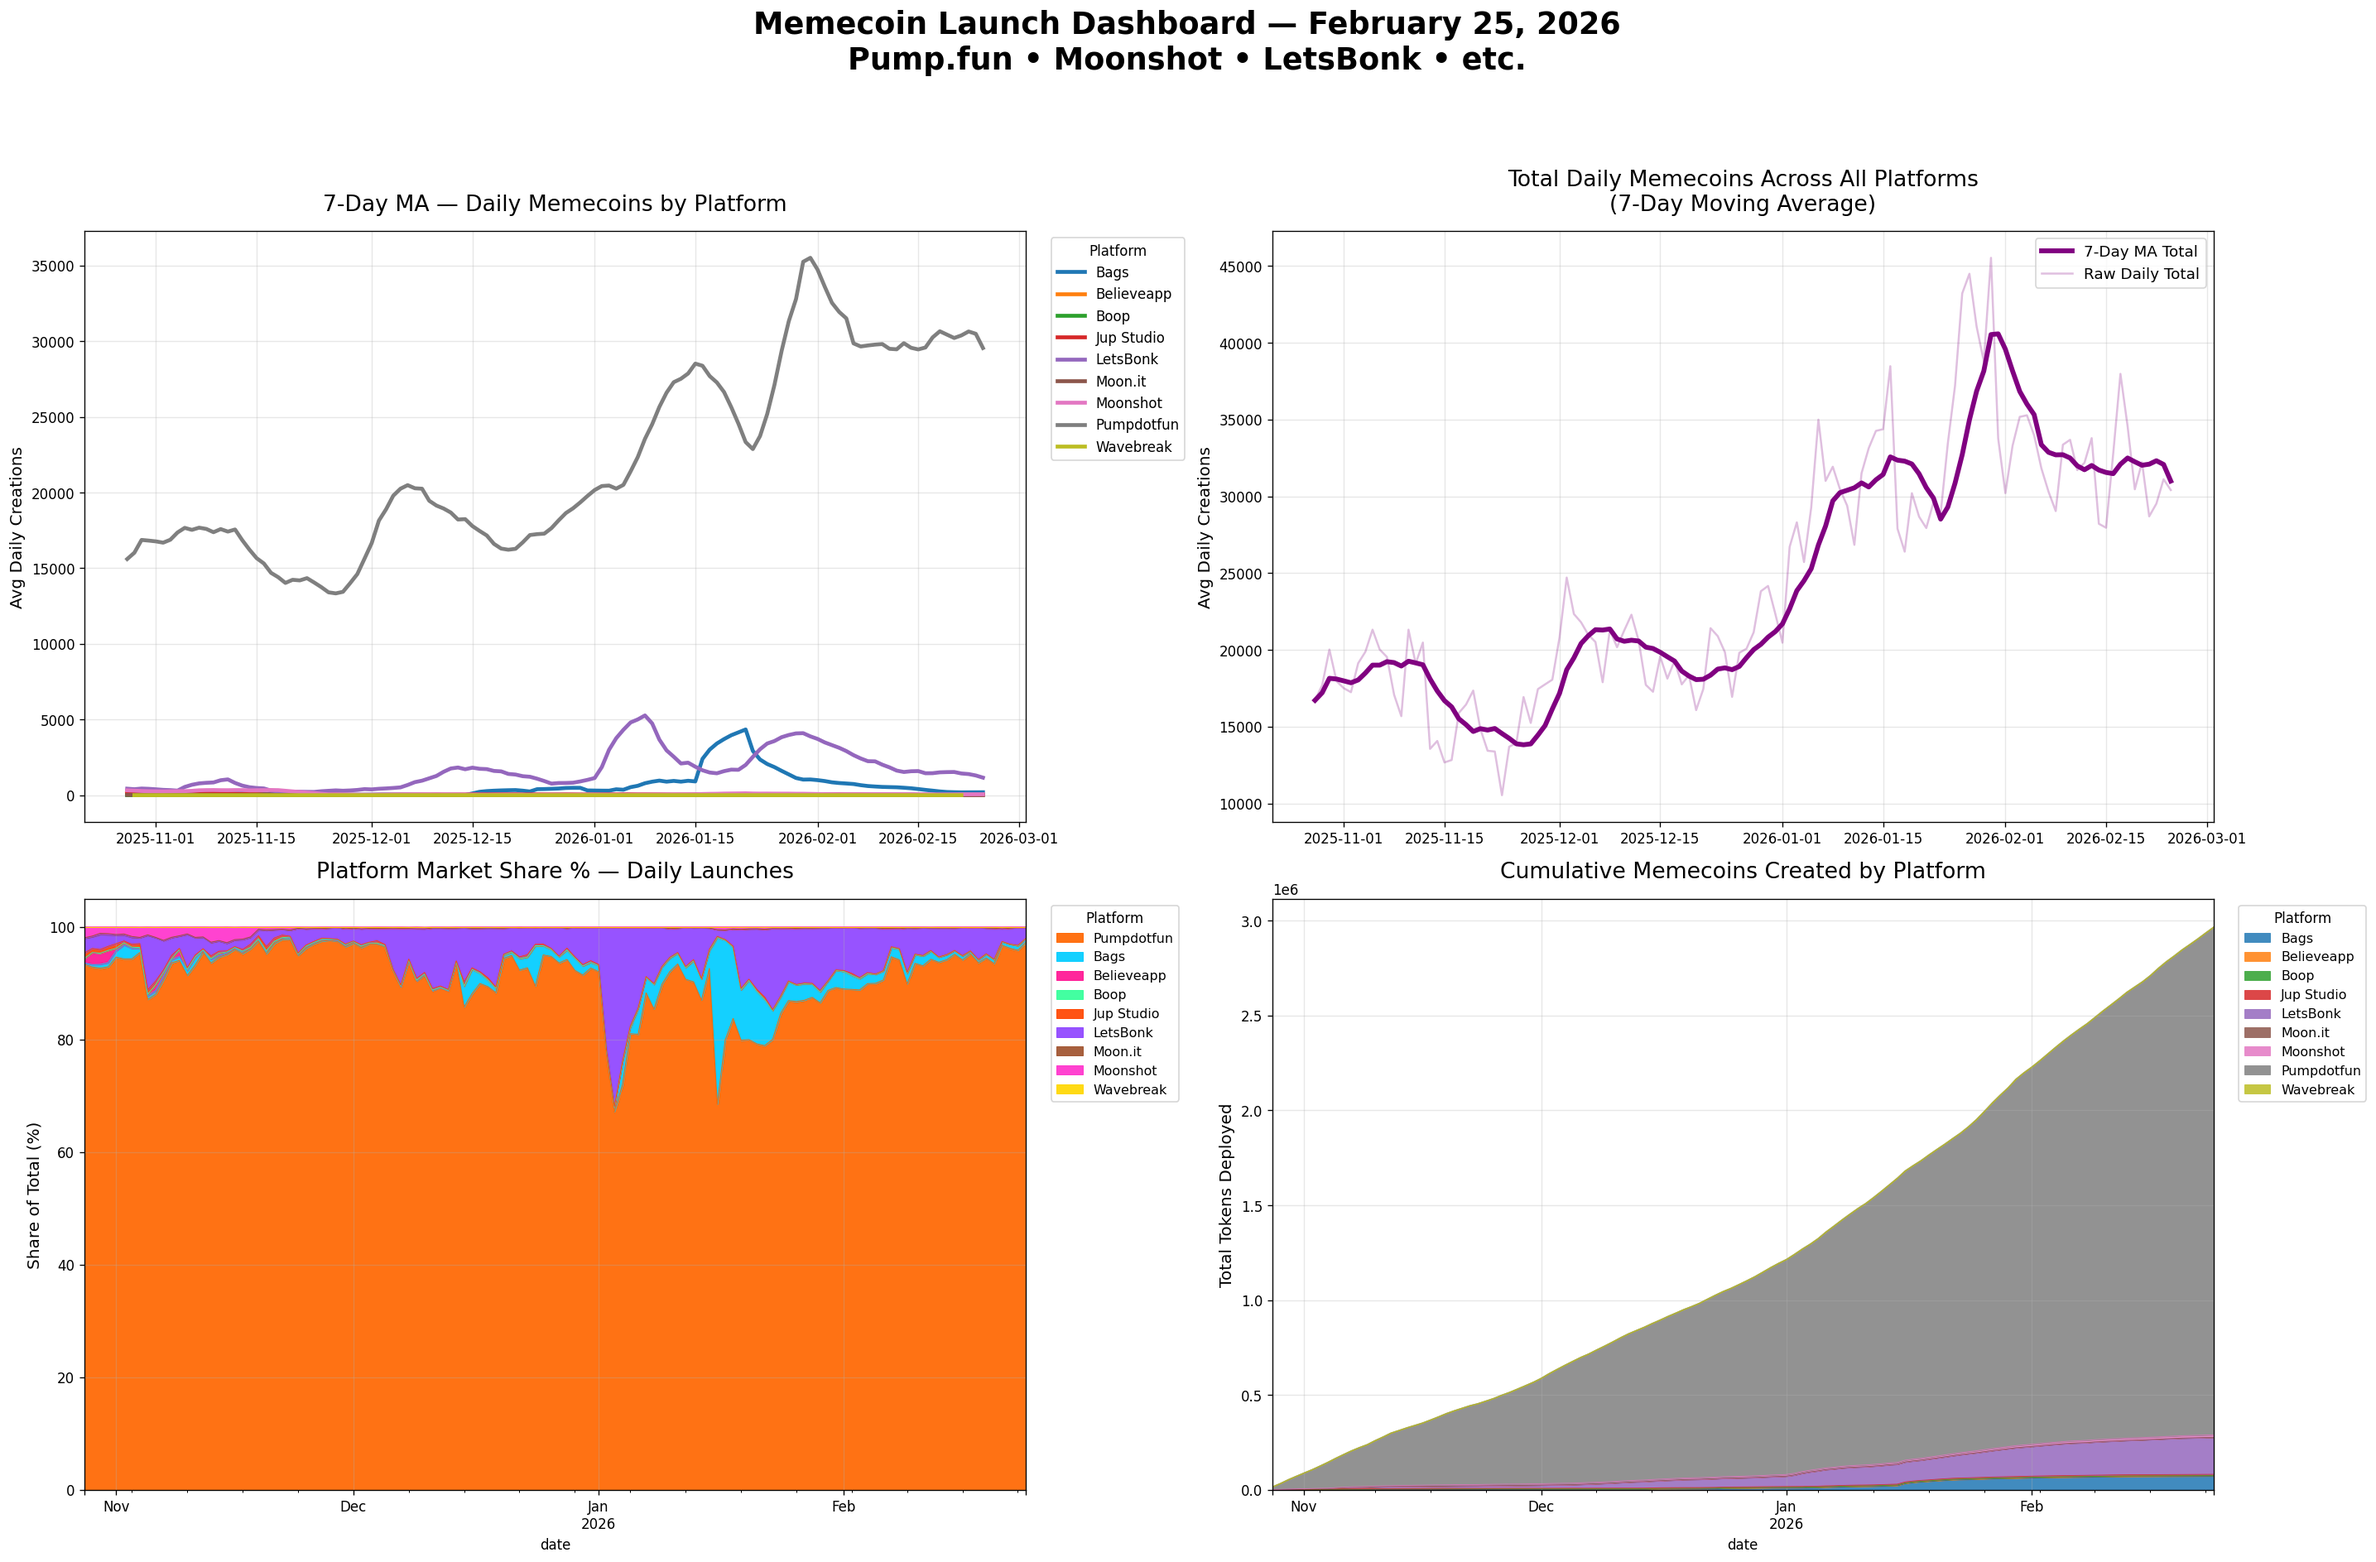
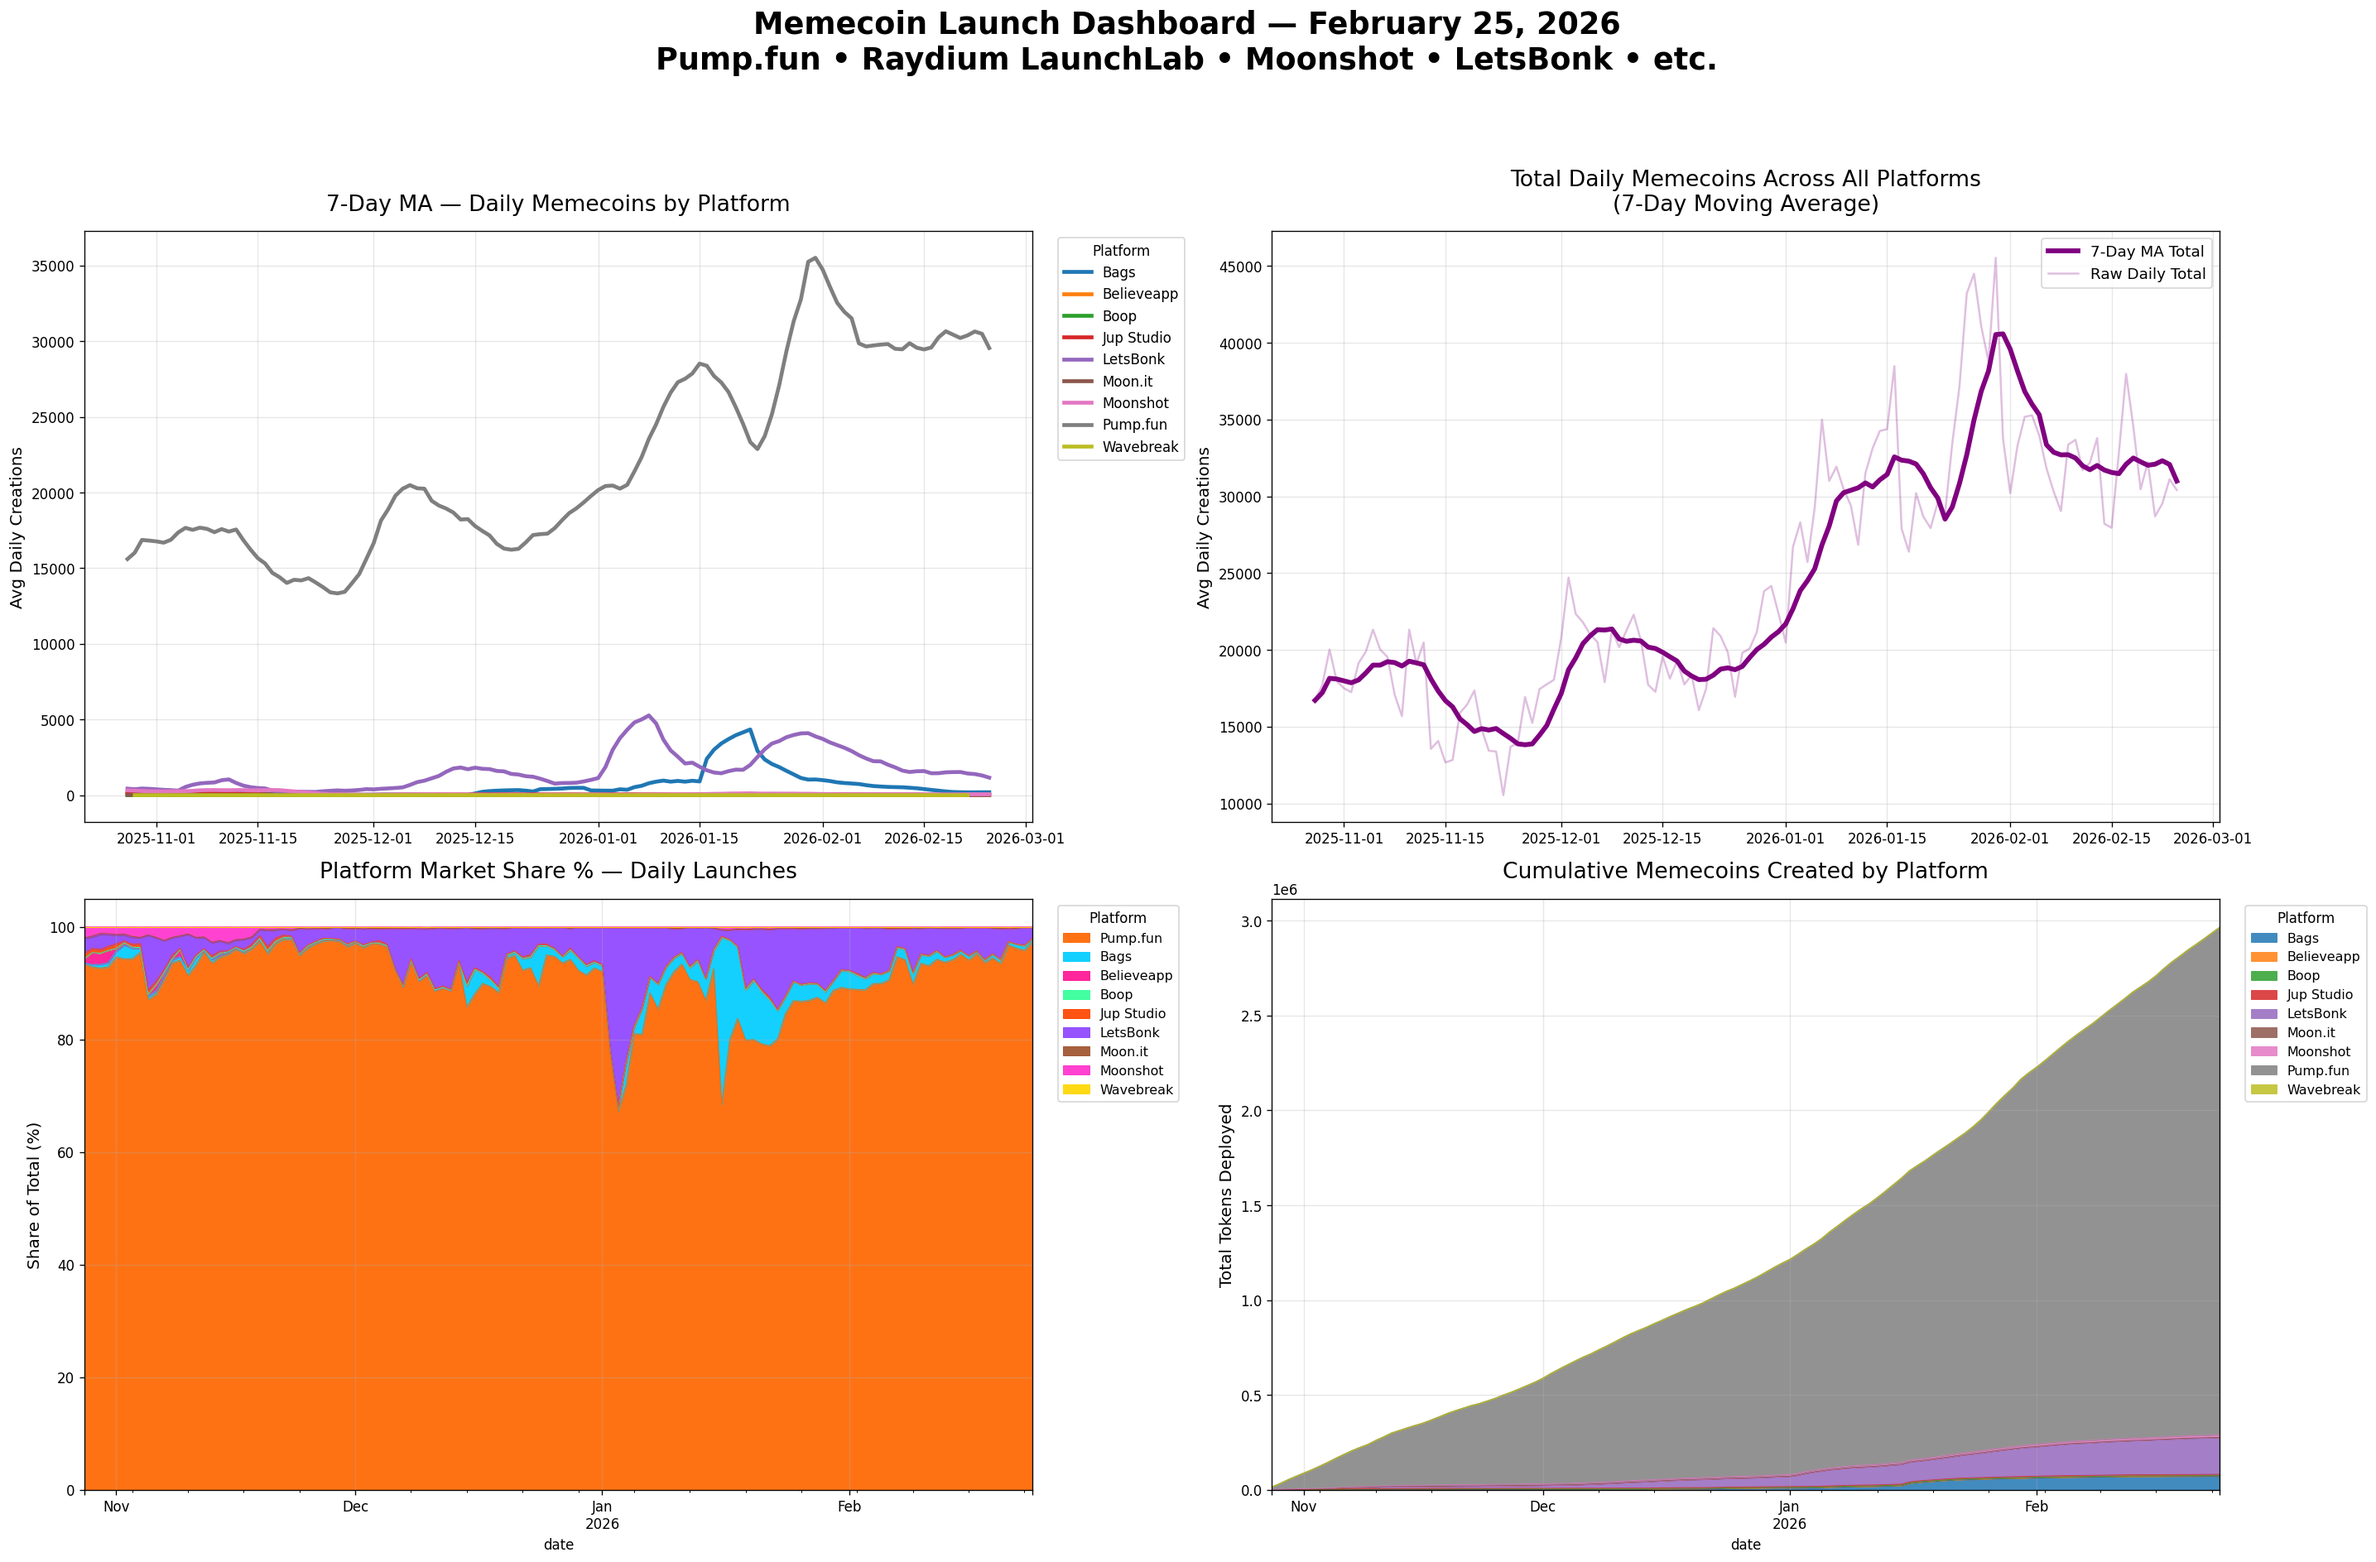
is raydium competitive

diff --git a/src/price_cor/memeData.py b/src/price_cor/memeData.py
@@ -6,7 +6,7 @@ from dune_client.client import DuneClient
 
 class MemecoinDashboard:
     QUERY_ID = 4010816
-    OUTPUT_FILE = "memecoin_dashboard.png"   # ← always the same file (overwrites)
+    OUTPUT_FILE = "memecoin_dashboard.png"   # always the same file
 
     def __init__(self):
         self.dune = self._init_dune_client()
@@ -14,7 +14,6 @@ class MemecoinDashboard:
         self.platform_col = 'platform'
         self.count_col = 'daily_token_count'
         
-        # Will be populated by run()
         self.df = None
         self.df_ma = None
         self.df_total = None
@@ -23,7 +22,6 @@ class MemecoinDashboard:
         self.df_pivot_cum = None
 
     def _init_dune_client(self):
-        """Interactive Dune API key (same as before)"""
         DUNE_API_KEY = os.getenv("DUNE_API_KEY")
         if not DUNE_API_KEY:
             DUNE_API_KEY = input("🔑 Paste your full Dune API key here: ").strip()
@@ -32,8 +30,17 @@ class MemecoinDashboard:
                 exit(1)
         return DuneClient(api_key=DUNE_API_KEY)
 
+    def _normalize_platform(self, name):
+        """Clean platform names for consistency"""
+        name = str(name).strip()
+        lower = name.lower()
+        if any(x in lower for x in ['raydium', 'launchlab', 'launch lab']):
+            return 'Raydium LaunchLab'
+        if lower == 'pumpdotfun':
+            return 'Pump.fun'
+        return name
+
     def fetch_data(self):
-        """Fetch latest data from Dune (exactly the same as before)"""
         print(f"\n🔄 Fetching live data from Dune Query #{self.QUERY_ID}...")
         self.df = self.dune.get_latest_result_dataframe(self.QUERY_ID)
 
@@ -43,12 +50,13 @@ class MemecoinDashboard:
         )
         self.df = self.df.sort_values('date').dropna(subset=['date'])
 
+        # Normalize names
+        self.df[self.platform_col] = self.df[self.platform_col].apply(self._normalize_platform)
+
         print("\nLatest 5 rows preview:")
         print(self.df[['date', self.platform_col, self.count_col]].tail(5))
 
     def compute_metrics(self):
-        """Pre-compute all the dataframes used in charts + tables"""
-        # 7-day MA per platform
         self.df_ma = (
             self.df.set_index('date')
             .groupby(self.platform_col)[self.count_col]
@@ -57,11 +65,9 @@ class MemecoinDashboard:
             .reset_index()
         )
 
-        # Total aggregate
         self.df_total = self.df.groupby('date')[self.count_col].sum().reset_index(name='total_daily')
         self.df_total['ma7'] = self.df_total['total_daily'].rolling(window=7, min_periods=1).mean()
 
-        # Daily pivot for share & cumulative
         self.df_pivot = self.df.pivot(
             index='date', 
             columns=self.platform_col, 
@@ -72,7 +78,6 @@ class MemecoinDashboard:
         self.df_pivot_cum = self.df_pivot.cumsum()
 
     def print_market_share(self):
-        """Print the exact same beautiful tables as before"""
         print("\n" + "="*90)
         print("               CURRENT MARKET SHARE")
         print("="*90)
@@ -115,8 +120,6 @@ class MemecoinDashboard:
                                  header=['Platform', 'Launches', '% Share']))
 
     def generate_dashboard(self):
-        """Build the exact same 2×2 dashboard + save to fixed filename"""
-        timestamp = datetime.now().strftime("%Y%m%d_%H%M")  # only for console log
         today = datetime.now().strftime("%B %d, %Y")
 
         fig, axs = plt.subplots(2, 2, figsize=(24, 16), dpi=120)
@@ -138,20 +141,25 @@ class MemecoinDashboard:
         axs[0, 1].legend(fontsize=11)
         axs[0, 1].grid(True, alpha=0.3)
 
-        # Bottom-left: Market share % with vibrant colors (Pump orange at bottom)
-        order = ['Pumpdotfun'] + [col for col in self.df_share.columns if col != 'Pumpdotfun']
+        # Bottom-left: Market share % — SAFE ordering (no more KeyError)
+        priority = ['Pump.fun', 'Raydium LaunchLab']
+        existing = list(self.df_share.columns)
+        order = [p for p in priority if p in existing]
+        remaining = [col for col in existing if col not in order]
+        order += remaining
         self.df_share = self.df_share[order]
 
         colors = {
-            'Pumpdotfun': '#FF6600',
-            'LetsBonk':   '#8E44FF',
-            'Moonshot':   '#FF33CC',
-            'Bags':       '#00CCFF',
-            'Boop':       '#33FF99',
-            'Believeapp': '#FF1493',
-            'Jup Studio': '#FF4500',
-            'Moon.it':    '#A0522D',
-            'Wavebreak':  '#FFD700'
+            'Pump.fun':           '#FF6600',
+            'Raydium LaunchLab':  '#39FF14',   # neon green
+            'LetsBonk':           '#8E44FF',
+            'Moonshot':           '#FF33CC',
+            'Bags':               '#00CCFF',
+            'Boop':               '#33FF99',
+            'Believeapp':         '#FF1493',
+            'Jup Studio':         '#FF4500',
+            'Moon.it':            '#A0522D',
+            'Wavebreak':          '#FFD700'
         }
         color_list = [colors.get(col, '#555555') for col in self.df_share.columns]
 
@@ -168,12 +176,12 @@ class MemecoinDashboard:
         axs[1, 1].legend(title="Platform", bbox_to_anchor=(1.02, 1), loc='upper left', fontsize=9.5)
         axs[1, 1].grid(True, alpha=0.3)
 
-        fig.suptitle(f"Memecoin Launch Dashboard — {today}\nPump.fun • Moonshot • LetsBonk • etc.", 
+        fig.suptitle(f"Memecoin Launch Dashboard — {today}\n"
+                     f"Pump.fun • Raydium LaunchLab • Moonshot • LetsBonk • etc.",
                      fontsize=22, fontweight='bold', y=0.98)
 
         plt.tight_layout(rect=[0, 0, 1, 0.94])
 
-        # SAVE TO FIXED FILENAME (overwrites every run)
         plt.savefig(self.OUTPUT_FILE, dpi=120, bbox_inches='tight', facecolor='white')
         print(f"\n✅ DASHBOARD SAVED → {self.OUTPUT_FILE}  (2880×1920 px)")
         plt.close()
